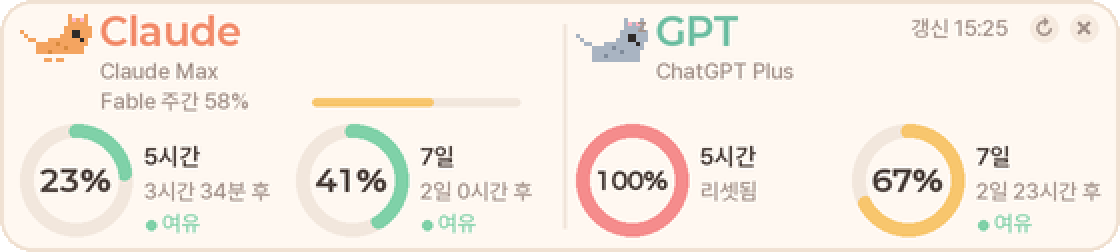
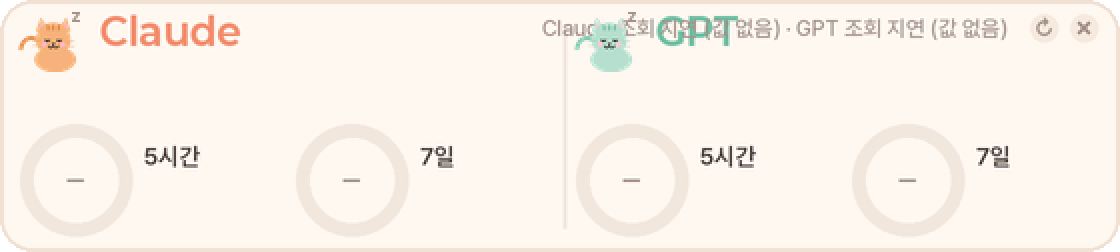
v1.1.0: 캐릭터 스타일 옵션 (부드러운 고양이 기본 / 도트 고양이 / 없음), GPT 고양이 민트 계열, 미리보기 갱신

diff --git a/usage_widget.py b/usage_widget.py
@@ -49,7 +49,7 @@ except Exception:  # noqa: BLE001
 import logging
 from logging.handlers import RotatingFileHandler
 
-VERSION = "1.0.5"
+VERSION = "1.1.0"
 LOG_PATH = Path(__file__).with_name("widget.log")
 logging.basicConfig(handlers=[RotatingFileHandler(LOG_PATH, maxBytes=200_000, backupCount=1, encoding="utf-8")],
                     level=logging.INFO, format="%(asctime)s %(levelname)s %(message)s")
@@ -162,6 +162,15 @@ CAT_HEAD = [
 CAT_HEAD_SLEEP = [r.replace("e", "-") for r in CAT_HEAD]
 CAT_HEAD_BOB = [0, -1, 0, 1]
 CAT_PX_MINI = 2
+
+# 캐릭터 스타일: "smooth"(부드러운 벡터 고양이, 기본) / "pixel"(도트) / "none"
+CHAR_STYLES = [("smooth", "부드러운 고양이"), ("pixel", "도트 고양이"), ("none", "없음")]
+CHAR_DEFAULT = "smooth"
+# 부드러운 고양이 색 (몸, 무늬, 볼터치) - GPT는 브랜드 민트 계열로
+SMOOTH_COLORS = {
+    "claude": ("#f6b27a", "#e08c4a", "#ffb7c5"),
+    "codex": ("#b6dfcf", "#7cc4aa", "#ffc9d4"),
+}
 
 
 # ---------------------------------------------------------------- 유틸
@@ -442,6 +451,7 @@ class Popup(tk.Toplevel):
         super().__init__(master)
         self.master_widget = master
         self.text, self.color = text, color
+        self.prov = prov
         self.on_click, self.seconds = on_click, seconds
         self.body, self.mark = "#f4a460", "#d98a3f"
         for k, n, a, b, m in PROVIDERS_ALL:
@@ -490,7 +500,8 @@ class Popup(tk.Toplevel):
         mask = Image.new("L", (POP_W, POP_H), 0)
         ImageDraw.Draw(mask).rounded_rectangle((0, 0, POP_W - 1, POP_H - 1), radius=16, fill=255)
         out = Image.composite(out, Image.new("RGB", (POP_W, POP_H), CHROMA), mask)
-        w._cat(ImageDraw.Draw(out), 22, 30, self._frame, self.body, self.mark, False, px=CAT_PX_POPUP)
+        if w.char != "none":
+            w._char(out, 22, 26, self._frame, self.prov, self.body, self.mark, False, kind="body", scale=1.5)
         return out
 
     def _anim(self):
@@ -592,6 +603,11 @@ class Widget(tk.Tk):
         kw = dict(tearoff=0, bg=CARD, fg=INK, activebackground="#ffe9d6", activeforeground=INK)
         self.menu = tk.Menu(self, **kw)
         self.menu.add_command(label="지금 새로고침", command=self.refresh)
+        char_menu = tk.Menu(self.menu, **kw)
+        self.char_var = tk.StringVar(value=self.state.get("char", CHAR_DEFAULT))
+        for key, label in CHAR_STYLES:
+            char_menu.add_radiobutton(label=label, value=key, variable=self.char_var, command=self._set_char)
+        self.menu.add_cascade(label="캐릭터 스타일", menu=char_menu)
         self.gpt_var = tk.BooleanVar(value=self.state.get("show_gpt", True))
         self.menu.add_checkbutton(label="GPT(Codex) 표시", variable=self.gpt_var, command=self._toggle_gpt)
         self.mini_var = tk.BooleanVar(value=self.mini)
@@ -634,6 +650,14 @@ class Widget(tk.Tk):
         self.menu.add_command(label=f"지금 업데이트 확인 (현재 v{VERSION})", command=lambda: self.check_update(manual=True))
         self.menu.add_separator()
         self.menu.add_command(label="종료", command=self.destroy)
+
+    def _set_char(self):
+        self._set("char", self.char_var.get())
+        self._base_key = None
+
+    @property
+    def char(self):
+        return self.state.get("char", CHAR_DEFAULT)
 
     def _toggle_gpt(self):
         v = self.gpt_var.get()
@@ -1008,7 +1032,7 @@ class Widget(tk.Tk):
             fb = extra_window(u, "fable")
             parts.append((fb.get("used_percent"), u.get("login_method"), self._is_stale(key)))
         parts.append(self._status()[:2])
-        parts.append((tuple(sorted(self.errors)), self.error, self.state.get("pace", False), getattr(self, "_ct_now", False)))
+        parts.append((tuple(sorted(self.errors)), self.error, self.state.get("pace", False), getattr(self, "_ct_now", False), self.char))
         return tuple(parts)
 
     def draw(self):
@@ -1024,15 +1048,15 @@ class Widget(tk.Tk):
         self._last_frame_key = frame_key
 
         out = self._base.copy()
-        d = ImageDraw.Draw(out)
         for i, (pkey, name, accent, body, mark) in enumerate(PROVIDERS):
             pct5 = ((self.usage.get(pkey) or {}).get("primary") or {}).get("used_percent")
             sleeping = pct5 is None or pct5 >= 100
+            fi = self._anim[pkey]["frame"]
             if self.mini:
-                self._cat_head(d, 9 + i * MINI_SEC_W, 11, self._anim[pkey]["frame"], body, mark, sleeping)
+                self._char(out, 8 + i * MINI_SEC_W, 8, fi, pkey, body, mark, sleeping, kind="head", scale=1.0)
             else:
                 ox = 10 + i * SEC_W
-                self._cat(d, ox, 9, self._anim[pkey]["frame"], body, mark, sleeping)
+                self._char(out, ox - 2, 8, fi, pkey, body, mark, sleeping, kind="body", scale=0.85)
         if os.environ.get("WIDGET_SNAP"):
             out.save(os.environ["WIDGET_SNAP"])
         self._photo = ImageTk.PhotoImage(out)
@@ -1056,7 +1080,7 @@ class Widget(tk.Tk):
             p7 = (u.get("secondary") or {}).get("used_percent")
             t5 = "–" if p5 is None else f"{int(round(p5))}%"
             t7 = "–" if p7 is None else f"{int(round(p7))}%"
-            x = ox + 30
+            x = ox + (30 if self.char != "none" else 4)
             d.text((x * S, 4 * S), name, font=self.f_tiny, fill=accent)           # 서비스 라벨 (윗줄)
             d.text((x * S, MINI_NUM_Y * S), t5, font=self.f_num,
                    fill=(C_STALE if stale else pct_color(p5)), anchor="lm")
@@ -1086,16 +1110,17 @@ class Widget(tk.Tk):
             u = self.usage.get(key) or {}
             stale = self._is_stale(key)
 
-            d.text(((ox + 40) * S, 4 * S), name, font=self.f_title, fill=accent)
+            tx = ox + (40 if self.char != "none" else 4)
+            d.text((tx * S, 4 * S), name, font=self.f_title, fill=accent)
             sub = "오래된 값 (1시간 이상 조회 실패)" if stale and u else (u.get("login_method") or "")
-            d.text(((ox + 40) * S, 29 * S), sub, font=self.f_tiny, fill=C_WARN if stale and u else INK_SOFT)
+            d.text((tx * S, 29 * S), sub, font=self.f_tiny, fill=C_WARN if stale and u else INK_SOFT)
 
             # 추가 창 (Claude: Fable 전용 주간) - 작은 막대
             fb = extra_window(u, "fable")
             if fb.get("used_percent") is not None:
                 fp = fb["used_percent"]
                 bx0, bx1, by = ox + 146, ox + half - 30, 49
-                d.text(((ox + 40) * S, (by - 5) * S), f"Fable 주간 {int(fp)}%", font=self.f_tiny, fill=INK_SOFT)
+                d.text((tx * S, (by - 5) * S), f"Fable 주간 {int(fp)}%", font=self.f_tiny, fill=INK_SOFT)
                 d.rounded_rectangle((bx0 * S, by * S, bx1 * S, (by + 4) * S), radius=2 * S, fill=TRACK)
                 fx = bx0 + (bx1 - bx0) * min(fp, 100) / 100
                 if fx > bx0 + 2:
@@ -1169,6 +1194,86 @@ class Widget(tk.Tk):
         d.ellipse(inner, fill=CARD)
         f = self.f_num_s if len(txt) >= 4 else self.f_num
         d.text((cx, cy), txt, font=f, fill=INK_SOFT if stale else INK, anchor="mm")
+
+    def _char(self, img, x, y, fi, prov, body, mark, sleeping, kind="body", scale=1.0):
+        """캐릭터 스타일에 따라 img(PIL RGB)에 캐릭터를 그린다. kind: body(전신) / head(얼굴)."""
+        style = self.char
+        if style == "none":
+            return
+        if style == "pixel":
+            d = ImageDraw.Draw(img)
+            if kind == "head":
+                self._cat_head(d, x, y, fi, body, mark, sleeping, px=max(1, int(round(CAT_PX_MINI * scale))))
+            else:
+                self._cat(d, x, y + 2, fi, body, mark, sleeping, px=max(1, int(round(CAT_PX * scale))))
+            return
+        sb, sm, blush = SMOOTH_COLORS.get(prov, (body, mark, "#ffb7c5"))
+        sprite = self._smooth_cat(fi, sb, sm, blush, sleeping, kind, scale)
+        img.paste(sprite, (x, y), sprite)
+        if sleeping:
+            d = ImageDraw.Draw(img)
+            phase = (self._ticks // 6) % 3
+            zx = x + sprite.width - 10 if kind == "body" else x + sprite.width // 2
+            d.text((zx, y - 8 + phase * 2), "z", font=self.f_z, fill=INK_SOFT)
+
+    def _smooth_cat(self, fi, body, mark, blush, sleeping, kind, scale):
+        """둥근 도형으로 그린 고양이. 4배 슈퍼샘플링 후 축소해 매끈하게. RGBA 반환."""
+        U = 4
+        if kind == "head":
+            w, h = int(22 * scale), int(24 * scale)
+        else:
+            w, h = int(44 * scale), int(34 * scale)
+        img = Image.new("RGBA", (w * U, h * U), (0, 0, 0, 0))
+        d = ImageDraw.Draw(img)
+        k = scale * U               # 논리 px -> 렌더 px
+        dark = "#3a3230"
+        bounce = 0 if sleeping else [0, -1, -2, -1][fi]
+        wag = 0 if sleeping else [0, 1, 0, -1][fi]
+
+        def E(x0, y0, x1, y1, fill, outline=None, width=0):
+            d.ellipse((x0 * k, y0 * k, x1 * k, y1 * k), fill=fill, outline=outline, width=int(width * k))
+
+        if kind == "body":
+            # 몸통 (뒤), 꼬리(왼쪽으로 말림), 머리
+            by = 18 + bounce
+            E(11, by, 35, by + 15, body)                                           # 몸
+            d.arc(((2 - wag) * k, (by - 6) * k, (16 - wag) * k, (by + 10) * k), 180, 330, fill=mark, width=int(2.4 * k))  # 꼬리
+            if not sleeping:                                                       # 발
+                for px_ in (15, 21, 27):
+                    E(px_, by + 12, px_ + 5, by + 16, body)
+            hx, hy = 22, 14 + bounce                                              # 머리 중심
+            r = 10
+        else:
+            hx, hy, r = 11, 14 + (0 if sleeping else bounce // 2), 10
+
+        # 귀 (삼각형 + 안쪽)
+        for sgn in (-1, 1):
+            ex = hx + sgn * 6
+            d.polygon([((ex - 4) * k, (hy - 5) * k), ((ex + sgn * 1.5) * k, (hy - 13) * k), ((ex + 4) * k, (hy - 5) * k)], fill=body)
+            d.polygon([((ex - 2) * k, (hy - 6) * k), ((ex + sgn * 1) * k, (hy - 10.5) * k), ((ex + 2) * k, (hy - 6) * k)], fill=blush)
+        # 머리
+        E(hx - r, hy - r, hx + r, hy + r, body)
+        # 이마 무늬
+        for dx in (-3, 0, 3):
+            d.line(((hx + dx) * k, (hy - r + 1) * k, (hx + dx) * k, (hy - r + 4.5) * k), fill=mark, width=int(1.6 * k))
+        # 볼터치
+        E(hx - 7, hy + 1.5, hx - 4, hy + 4, blush)
+        E(hx + 4, hy + 1.5, hx + 7, hy + 4, blush)
+        # 눈
+        for ex in (hx - 3.5, hx + 3.5):
+            if sleeping:
+                d.arc(((ex - 1.8) * k, (hy - 2) * k, (ex + 1.8) * k, (hy + 1) * k), 20, 160, fill=dark, width=int(1.2 * k))
+            else:
+                E(ex - 1.3, hy - 1.6, ex + 1.3, hy + 1.0, dark)
+        # 코 + 입 (ω)
+        d.polygon([((hx - 1) * k, (hy + 2) * k), ((hx + 1) * k, (hy + 2) * k), (hx * k, (hy + 3.2) * k)], fill=dark)
+        d.arc(((hx - 3) * k, (hy + 2) * k, hx * k, (hy + 5) * k), 0, 180, fill=dark, width=int(0.9 * k))
+        d.arc((hx * k, (hy + 2) * k, (hx + 3) * k, (hy + 5) * k), 0, 180, fill=dark, width=int(0.9 * k))
+        # 수염
+        for sgn in (-1, 1):
+            for dy in (-0.5, 1.5):
+                d.line(((hx + sgn * 8) * k, (hy + 2 + dy) * k, (hx + sgn * 12) * k, (hy + 1.5 + dy * 1.6) * k), fill=mark, width=int(0.8 * k))
+        return img.resize((w, h), Image.LANCZOS)
 
     def _cat_head(self, d, x, y, fi, body, mark, sleeping, px=CAT_PX_MINI):
         """미니 모드용 얼굴 아이콘."""

diff --git a/README.md b/README.md
@@ -9,7 +9,11 @@ RunCat처럼 픽셀 고양이가 달리는데, 한도를 많이 쓸수록 빨리
 
 ![taskbar](docs/taskbar-mini.png)
 
-고양이 상태:
+캐릭터 스타일 (부드러운 고양이 / 도트 고양이 / 없음, 우클릭 메뉴에서 선택):
+
+![characters](docs/characters.png)
+
+도트 고양이 상태:
 
 ![cats](docs/cats.png)
 
@@ -21,6 +25,7 @@ RunCat처럼 픽셀 고양이가 달리는데, 한도를 많이 쓸수록 빨리
 - **페이스 예측**: 이 속도면 리셋 전에 부족한지 여유인지 (옵션)
 - **전체화면 앱 감지 시 자동 숨김** (같은 모니터에서만), 종료되면 복귀
 - **클릭 통과 모드**: 다른 창이 활성일 땐 마우스가 위젯을 통과, 바탕화면이 활성이거나 Ctrl을 누른 동안만 조작
+- **캐릭터 스타일 선택**: 부드러운 고양이(기본, 둥근 도형으로 그린 벡터) / 도트 고양이(RunCat풍 픽셀) / 없음(숫자만). 우클릭 → 캐릭터 스타일
 - **작업표시줄 미니 모드**: 더블클릭하면 시계 왼쪽에 알약 모양(고양이 2마리 + 5h·7d %)으로 붙음. 좌우로 드래그해 자리를 정하면 기억. 다시 더블클릭하면 카드로 복귀
 - **자동 업데이트**: 하루 한 번 GitHub 최신 릴리즈를 확인하고, 새 버전이면 팝업 → 클릭 한 번으로 내려받아 교체·재시작 (우클릭 메뉴에서 끄거나 즉시 확인 가능)
 - 투명도 조절, 항상 위 토글, Windows 시작 시 자동 실행
